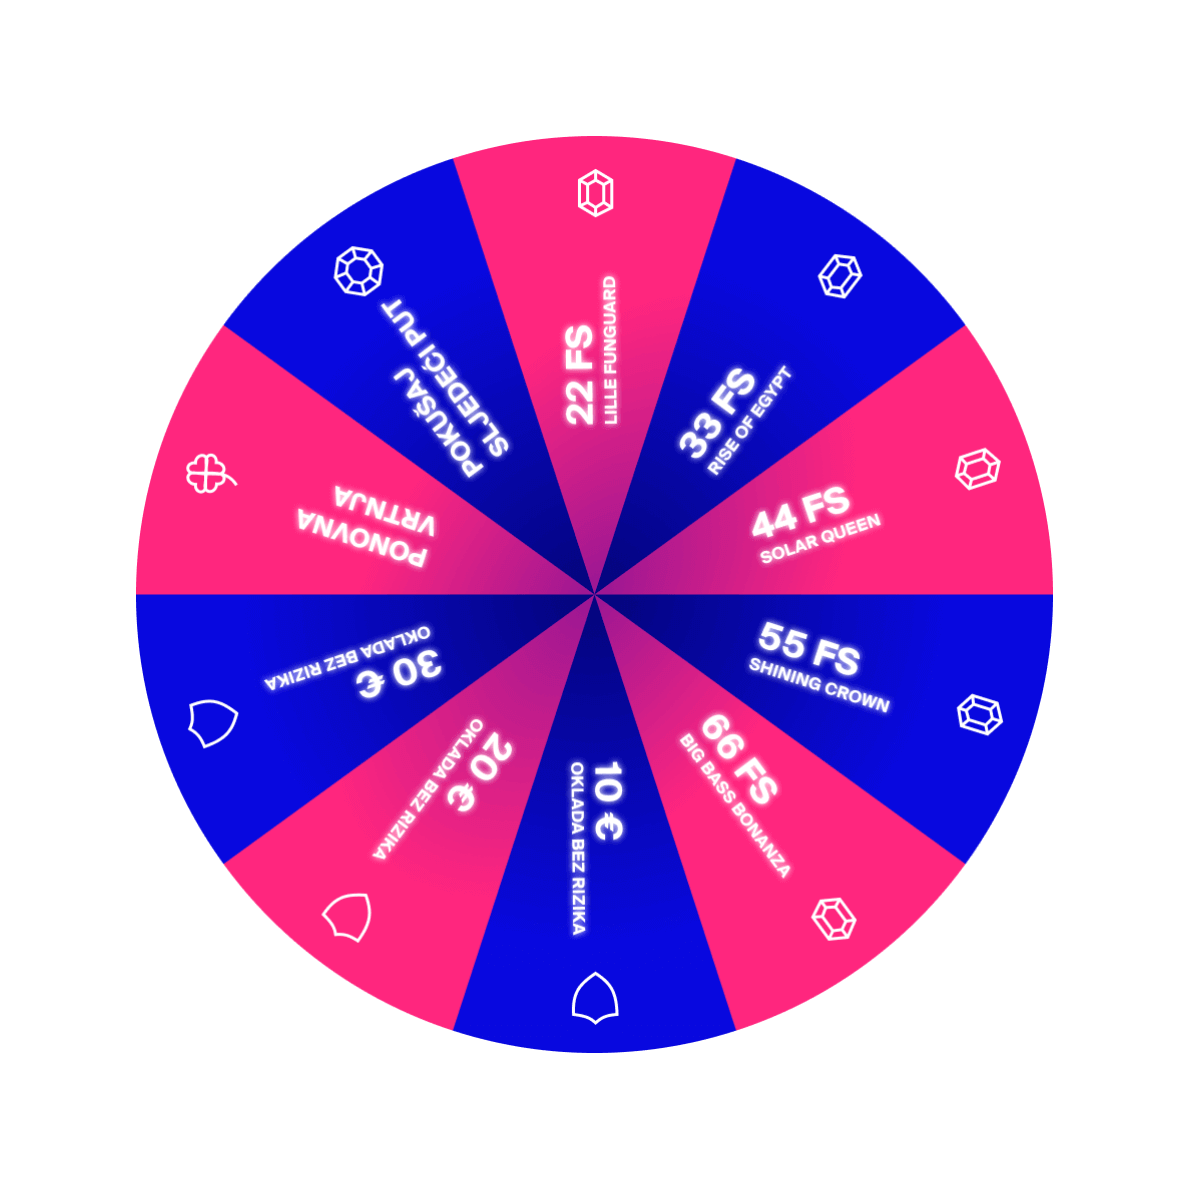
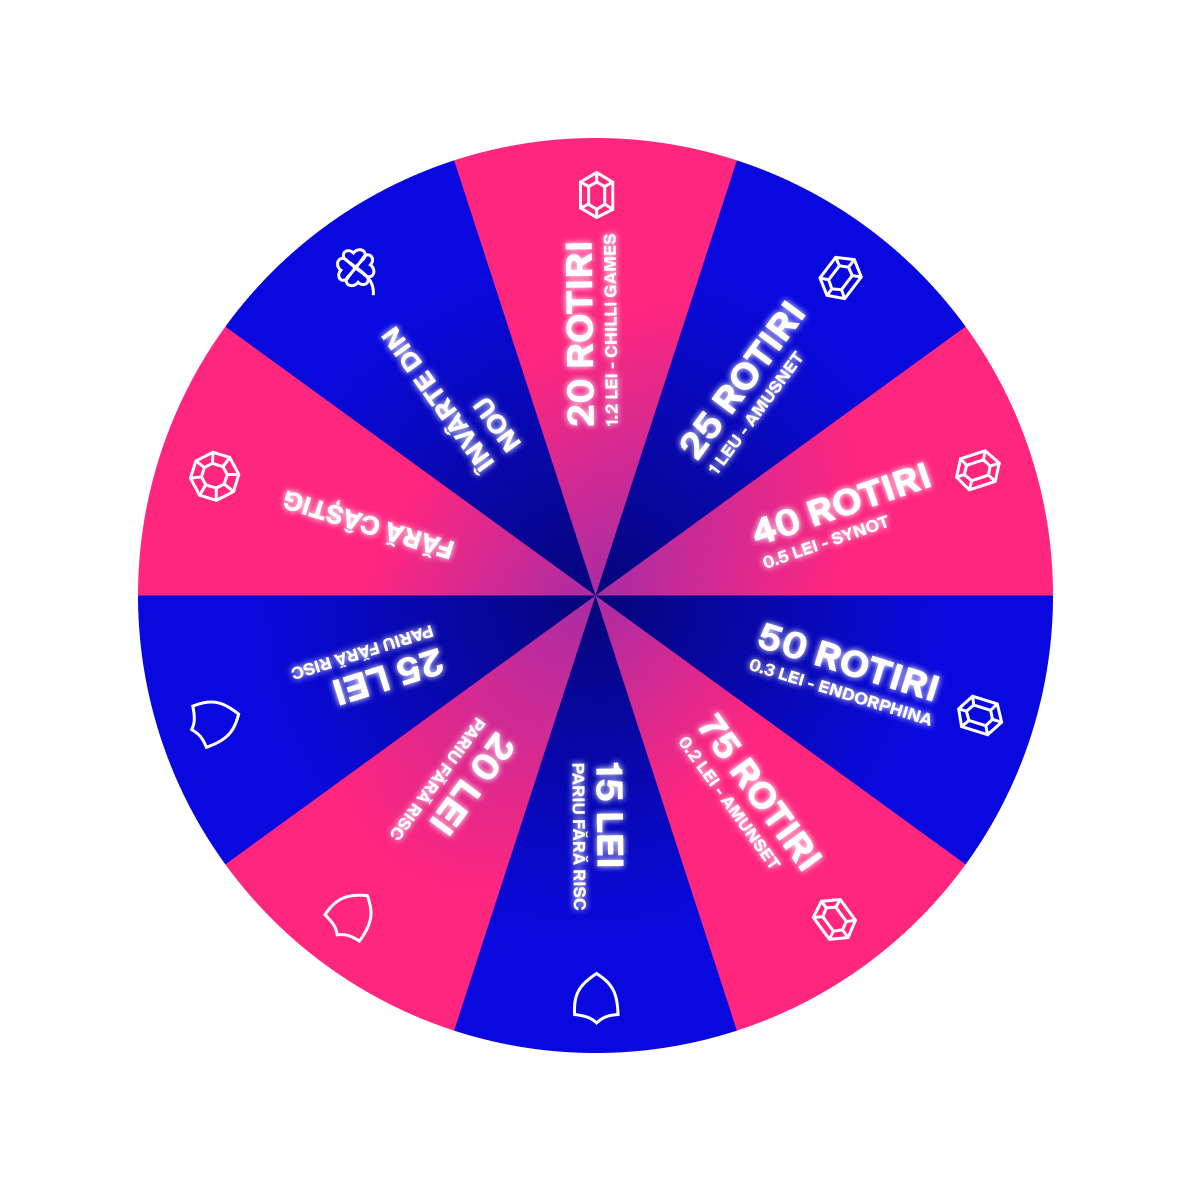
ro init

diff --git a/front/js/main.js b/front/js/main.js
@@ -15,7 +15,7 @@
     //
     //
     // let i18nData = {};
-    // const debug = false;
+    const debug = true;
     // let userId;
     //
     // function loadTranslations() {
@@ -386,62 +386,65 @@
             btn.style.pointerEvents = "none"
         }
     }
-    function initSpin(sections, btn, wheel, arrow, spinBg, salut) {
+    function initSpin(sections, btn, wheel, arrow, spinBg, salut, prize) {
         btn.addEventListener("click", () =>{
-            sendSpinRequest().then(res => {
-                console.log(res);
-                if (!res || !!res.error) {
-                    btnWheel.classList.add('pulse-btn');
-                    btnWheel.classList.remove('_disabled')
-                    return;
-                }
-                const prize = res.number;
-                const streakBonus = res.streakBonus || debug;
-                if(prize === "nothing"){
-                    popup.classList.add("_nothing")
-                    sections.addEventListener("animationend", () => showPopup(sections, wheel,"_nothing", streakBonus, spinBg, popupCloseBtn, popupContainer, popup), {once: true})
-                    spinWheel(1872, "nothingPrize", sections, btn, wheel, arrow, prize, spinBg, salut)
-                }
-                if(prize === "fs22"){
-                    sections.addEventListener("animationend", () => showPopup(sections, wheel, "_bonus", streakBonus, spinBg, popupCloseBtn, popupContainer, popup, "fs22"), {once: true})
-                    spinWheel(1800, "fs22anim", sections, btn, wheel, arrow, prize, spinBg, salut)
-                }
-                if(prize === "fs33"){
-                    sections.addEventListener("animationend", () => showPopup(sections, wheel, "_bonus", streakBonus, spinBg, popupCloseBtn, popupContainer, popup, "fs33"), {once: true})
-                    spinWheel(1762, "fs33anim", sections, btn, wheel, arrow, prize, spinBg, salut)
-                }
-                if(prize === "fs44"){
-                    sections.addEventListener("animationend", () => showPopup(sections, wheel, "_bonus", streakBonus, spinBg, popupCloseBtn, popupContainer, popup, "fs44"), {once: true})
-                    spinWheel(2088, "fs44anim", sections, btn, wheel, arrow, prize, spinBg, salut)
-                }
-                if(prize === "fs55"){
-                    sections.addEventListener("animationend", () => showPopup(sections, wheel, "_bonus", streakBonus, spinBg, popupCloseBtn, popupContainer, popup, "fs55"), {once: true})
-                    spinWheel(2052.5, "fs55anim", sections, btn, wheel, arrow, prize, spinBg, salut)
-                }
-                if(prize === "fs66"){
-                    sections.addEventListener("animationend", () => showPopup(sections, wheel, "_bonus", streakBonus, spinBg, popupCloseBtn, popupContainer, popup, "fs66"), {once: true})
-                    spinWheel(2016.5, "fs66anim", sections, btn, wheel, arrow, prize, spinBg, salut)
-                }
-                if(prize === "euro10"){
-                    sections.addEventListener("animationend", () => showPopup(sections, wheel, "_bonus", streakBonus, spinBg, popupCloseBtn, popupContainer, popup, "euro10"), {once: true})
-                    spinWheel(1980, "euro10anim", sections, btn, wheel, arrow, prize, spinBg, salut)
-                }
-                if(prize === "euro20"){
-                    sections.addEventListener("animationend", () => showPopup(sections, wheel, "_bonus", streakBonus, spinBg, popupCloseBtn, popupContainer, popup, "euro20"), {once: true})
-                    spinWheel(1942, "euro20anim", sections, btn, wheel, arrow, prize, spinBg, salut)
-                }
-                if(prize === "euro30"){
-                    sections.addEventListener("animationend", () => showPopup(sections, wheel, "_bonus", streakBonus, spinBg, popupCloseBtn, popupContainer, popup, "euro30"), {once: true})
-                    spinWheel(1908, "euro30anim", sections, btn, wheel, arrow, prize, spinBg, salut)
-                }
-                if(prize === "respin"){
-                    sections.addEventListener("animationend", () => showPopup(sections, wheel, "_bonus", streakBonus, spinBg, popupCloseBtn, popupContainer, popup, "respin"), {once: true})
-                    spinWheel(72.5, "respinAnim", sections, btn, wheel, arrow, prize, spinBg, salut)
-                }
-            });
+            // sendSpinRequest().then(res => {
+            //     console.log(res);
+            //     if (!res || !!res.error) {
+            //         btnWheel.classList.add('pulse-btn');
+            //         btnWheel.classList.remove('_disabled')
+            //         return;
+            //     }
+            // });
+
+
+            // const prize = res.number;
+            // const streakBonus = res.streakBonus || debug;
+            const streakBonus = true
+            if(prize === "nothing"){
+                popup.classList.add("_nothing")
+                sections.addEventListener("animationend", () => showPopup(sections, wheel,"_nothing", streakBonus, spinBg, popupCloseBtn, popupContainer, popup), {once: true})
+                spinWheel(1872, "nothingPrize", sections, btn, wheel, arrow, prize, spinBg, salut)
+            }
+            if(prize === "fs20"){
+                sections.addEventListener("animationend", () => showPopup(sections, wheel, "_bonus", streakBonus, spinBg, popupCloseBtn, popupContainer, popup, "fs20"), {once: true})
+                spinWheel(1800, "fs20anim", sections, btn, wheel, arrow, prize, spinBg, salut)
+            }
+            if(prize === "fs25"){
+                sections.addEventListener("animationend", () => showPopup(sections, wheel, "_bonus", streakBonus, spinBg, popupCloseBtn, popupContainer, popup, "fs25"), {once: true})
+                spinWheel(1762, "fs25anim", sections, btn, wheel, arrow, prize, spinBg, salut)
+            }
+            if(prize === "fs40"){
+                sections.addEventListener("animationend", () => showPopup(sections, wheel, "_bonus", streakBonus, spinBg, popupCloseBtn, popupContainer, popup, "fs40"), {once: true})
+                spinWheel(2088, "fs40anim", sections, btn, wheel, arrow, prize, spinBg, salut)
+            }
+            if(prize === "fs50"){
+                sections.addEventListener("animationend", () => showPopup(sections, wheel, "_bonus", streakBonus, spinBg, popupCloseBtn, popupContainer, popup, "fs50"), {once: true})
+                spinWheel(2052.5, "fs50anim", sections, btn, wheel, arrow, prize, spinBg, salut)
+            }
+            if(prize === "fs75"){
+                sections.addEventListener("animationend", () => showPopup(sections, wheel, "_bonus", streakBonus, spinBg, popupCloseBtn, popupContainer, popup, "fs75"), {once: true})
+                spinWheel(2016.5, "fs75anim", sections, btn, wheel, arrow, prize, spinBg, salut)
+            }
+            if(prize === "euro10"){
+                sections.addEventListener("animationend", () => showPopup(sections, wheel, "_bonus", streakBonus, spinBg, popupCloseBtn, popupContainer, popup, "euro10"), {once: true})
+                spinWheel(1980, "euro10anim", sections, btn, wheel, arrow, prize, spinBg, salut)
+            }
+            if(prize === "euro20"){
+                sections.addEventListener("animationend", () => showPopup(sections, wheel, "_bonus", streakBonus, spinBg, popupCloseBtn, popupContainer, popup, "euro20"), {once: true})
+                spinWheel(1942, "euro20anim", sections, btn, wheel, arrow, prize, spinBg, salut)
+            }
+            if(prize === "euro30"){
+                sections.addEventListener("animationend", () => showPopup(sections, wheel, "_bonus", streakBonus, spinBg, popupCloseBtn, popupContainer, popup, "euro30"), {once: true})
+                spinWheel(1908, "euro30anim", sections, btn, wheel, arrow, prize, spinBg, salut)
+            }
+            if(prize === "respin"){
+                sections.addEventListener("animationend", () => showPopup(sections, wheel, "_bonus", streakBonus, spinBg, popupCloseBtn, popupContainer, popup, "respin"), {once: true})
+                spinWheel(72.5, "respinAnim", sections, btn, wheel, arrow, prize, spinBg, salut)
+            }
         })
     }
-    initSpin(wheelSections, wheelBtn, wheelWrap, wheelArrow, spinBg, salut)
+    initSpin(wheelSections, wheelBtn, wheelWrap, wheelArrow, spinBg, salut, "respin")
     //
     // function refreshUserInfo(userInfo) {
     //     refreshDailyPointsSection(userInfo);
@@ -535,5 +538,12 @@
             }
         });
     });
+
+    // for test
+
+    const fs20 = document.querySelector('.fs20')
+
+   initSpin(wheelSections, fs20, wheelWrap, wheelArrow, spinBg, salut, "fs20")
+
 
 })();

diff --git a/front/sass/pages/index.sass b/front/sass/pages/index.sass
@@ -753,7 +753,7 @@ body
           line-height: 34px
           text-shadow: 0px 0px 20px rgba(0, 198, 255, 0.62), 0px 0px 20px rgba(0, 198, 255, 0.62), 0px 0px 15px rgba(0, 198, 255, 0.62), 0px 0px 15px rgba(0, 198, 255, 0.62), 0px 0px 55px rgba(0, 198, 255, 0.62)
           text-align: center
-          text-transform: uppercase
+          //text-transform: uppercase
           display: flex
           justify-content: space-between
           align-items: center
@@ -786,7 +786,7 @@ body
       flex-direction: column
       align-items: center
       justify-content: flex-start
-      padding:  30px 10px 10px 5px
+      padding:  25px 65px 20px 55px
       @media screen and (max-width: 600px)
         background: url("../img/wheel/mob/wheel-buble-bg.png") no-repeat 0 0/cover
         background-size: 100% 100%
@@ -1861,7 +1861,7 @@ body
   100%
     transform: translate(-50%, -50%) rotate(1836deg)
 
-@keyframes wheelSpin22fs
+@keyframes wheelSpin20fs
   0%
     transform: translate(-50%, -50%) rotate(72.5deg)
   10%
@@ -1875,7 +1875,7 @@ body
   100%
     transform: translate(-50%, -50%) rotate(1800deg)
 
-@keyframes wheelSpin33fs
+@keyframes wheelSpin25fs
   0%
     transform: translate(-50%, -50%) rotate(72.5deg)
   10%
@@ -1889,7 +1889,7 @@ body
   100%
     transform: translate(-50%, -50%) rotate(1762deg)
 
-@keyframes wheelSpin44fs
+@keyframes wheelSpin40fs
   0%
     transform: translate(-50%, -50%) rotate(72.5deg)
   10%
@@ -1903,7 +1903,7 @@ body
   100%
     transform: translate(-50%, -50%) rotate(2088deg)
 
-@keyframes wheelSpin55fs
+@keyframes wheelSpin50fs
   0%
     transform: translate(-50%, -50%) rotate(72.5deg)
   10%
@@ -1917,7 +1917,7 @@ body
   100%
     transform: translate(-50%, -50%) rotate(2052.2deg)
 
-@keyframes wheelSpin66fs
+@keyframes wheelSpin75fs
   0%
     transform: translate(-50%, -50%) rotate(72.5deg)
   10%
@@ -1991,28 +1991,28 @@ body
   animation: wheelSpinNothing 8s ease-in-out
 
 .popups
-  .popup.fs22
-    .popup__title.fs22
+  .popup.fs20
+    .popup__title.fs20
       display: block !important
 
 .popups
-  .popup.fs33
-    .popup__title.fs33
+  .popup.fs25
+    .popup__title.fs25
       display: block !important
 
 .popups
-  .popup.fs44
-    .popup__title.fs44
+  .popup.fs40
+    .popup__title.fs40
       display: block !important
 
 .popups
-  .popup.fs55
-    .popup__title.fs55
+  .popup.fs50
+    .popup__title.fs50
       display: block !important
 
 .popups
-  .popup.fs66
-    .popup__title.fs66
+  .popup.fs75
+    .popup__title.fs75
       display: block !important
 
 .popups
@@ -2030,20 +2030,20 @@ body
     .popup__title.euro30
       display: block !important
 
-.fs22anim
-  animation: wheelSpin22fs 8s ease-in-out
+.fs20anim
+  animation: wheelSpin20fs 8s ease-in-out
 
-.fs33anim
-  animation: wheelSpin33fs 8s ease-in-out
+.fs25anim
+  animation: wheelSpin25fs 8s ease-in-out
 
-.fs44anim
-  animation: wheelSpin44fs 8s ease-in-out
+.fs40anim
+  animation: wheelSpin40fs 8s ease-in-out
 
-.fs55anim
-  animation: wheelSpin55fs 8s ease-in-out
+.fs50anim
+  animation: wheelSpin50fs 8s ease-in-out
 
-.fs66anim
-  animation: wheelSpin66fs 8s ease-in-out
+.fs75anim
+  animation: wheelSpin75fs 8s ease-in-out
 
 .euro10anim
   animation: wheelSpin10Euro 8s ease-in-out
